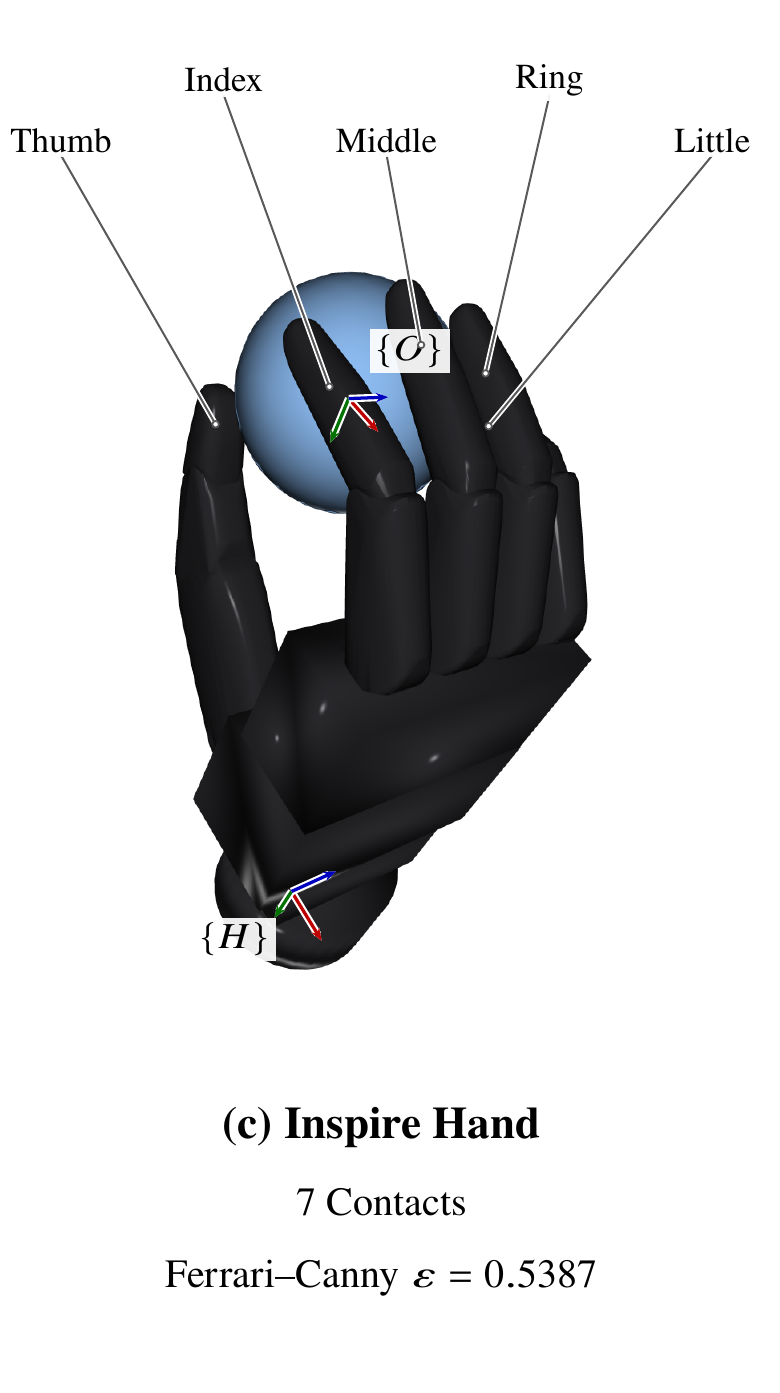
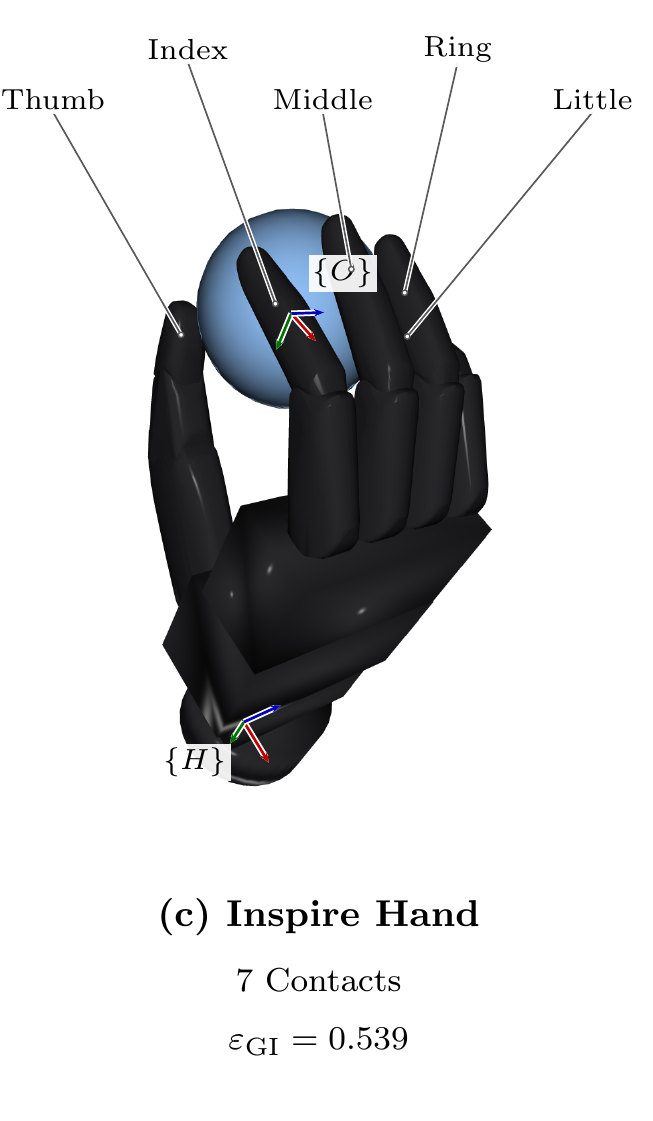
refresh the public grasp-planning guides

diff --git a/README.md b/README.md
@@ -1,112 +1,141 @@
 # graspit-py
 
-[Documentation](https://clintonenwerem.com/graspit-py/) ·
-[GraspIt! Simulator](https://graspit-simulator.github.io/) ·
-[arXiv Preprint (Coming Soon)](https://clintonenwerem.com/graspit-py/references.html#software-preprint)
+[![License: GPL-3.0-or-later](https://img.shields.io/badge/license-GPL--3.0--or--later-blue)](LICENSE)
+[![Python 3.10+](https://img.shields.io/badge/python-3.10%2B-blue)](setup.py)
+[![Documentation](https://img.shields.io/badge/docs-online-brightgreen)](https://clintonenwerem.com/graspit-py/)
 
 `graspit-py` exposes the [GraspIt! simulator](https://graspit-simulator.github.io/)
-as a Python library for grasp synthesis and evaluation with multifingered
-hands. The native bindings provide hand pose and joint control, autograsp,
-collision queries, contact geometry, and wrench-space metrics. The contact
-planner ranks simulated closures by Ferrari–Canny quality or task-wrench
-capacity under approach and friction uncertainty. The MuJoCo exporter
-generates GraspIt! hand and object descriptions and records the joint
-correspondence for transferring a planned configuration back to MuJoCo.
+as a Python library for grasp synthesis and evaluation with multifingered hands.
 
-Python imports use `graspit_py`:
+- **Native bindings:** set hand poses and joint coordinates, close fingers with autograsp, query collisions and contact geometry, and evaluate wrench-space metrics.
+- **Contact planner:** search approach commands and rank closures by Ferrari–Canny quality or task-wrench capacity under pose and friction uncertainty.
+- **MuJoCo exporter:** generate GraspIt! hand and object descriptions from a compiled MuJoCo scene, with a joint map for reconstructing planned configurations.
 
-```python
-from graspit_py.core import bindings
-from graspit_py.planning import ContactPlanner, HandFrame, PlannerConfig
-```
+Contact positions, normals, and sampled scores remain available to caller-defined
+numerical routines. The calling application supplies arm kinematics, trajectory
+planning, and execution. See the [manual](https://clintonenwerem.com/graspit-py/)
+for the mathematical formulation, API, and complete workflows.
 
-The original `graspit_python_wrapper` imports remain supported. Both names
-refer to the same modules, Python classes, and native GraspIt! state.
+## Installation
 
-## Installation on Linux
-
-The reference build uses Ubuntu 24.04 and Python 3.12. Docker builds the
-pinned public GraspIt! source with the supplied compatibility patch.
+The native extension targets Linux. The reference environment uses Ubuntu 24.04
+and Python 3.12; the package requires Python 3.10 or later. Docker supplies the
+Linux environment, pinned GraspIt! engine, and dependencies for the commands below.
 
 ```sh
 git clone https://github.com/coenwerem/graspit-py.git
 cd graspit-py
 docker buildx build --load -f docker/Dockerfile -t graspit-py .
+docker run --rm graspit-py python -m graspit_py.planning --help
 ```
 
-The [installation guide](docs/INSTALL.md) also covers native builds
-and headless execution.
+The final command prints the planner usage beginning with:
+
+```text
+usage: python -m graspit_py.planning [-h] --robot ROBOT --object OBJECT
+```
+
+The [installation guide](https://clintonenwerem.com/graspit-py/INSTALL.html)
+covers native builds, optional dependencies, and headless execution.
+Python imports use `graspit_py`; existing `graspit_python_wrapper` imports
+remain supported, as described in the guide.
+
+## First Grasp
+
+The image includes the native Barrett hand and a 50 mm cube, so this closure
+example requires no external model assets. Xvfb supplies the virtual display
+used by GraspIt! during headless execution.
+
+```sh
+mkdir -p output
+docker run --rm --user "$(id -u):$(id -g)" \
+    -v "$PWD/output:/output" graspit-py \
+    xvfb-run -a python /src/examples/contact_quality.py \
+    --robot /opt/graspit/models/robots/Barrett/Barrett.xml \
+    --object /opt/graspit/models/objects/cube.xml \
+    --object-position-mm 0 0 100 --out /output/barrett-cube.json
+```
+
+The command prints contact and quality measurements and writes
+`output/barrett-cube.json`. The [walkthrough](https://clintonenwerem.com/graspit-py/quickstart.html)
+explains the output and continues with RealHand L6 model export and planning.
 
 ## Grasp Planning
 
-The [RealHand L6 walkthrough](docs/quickstart.md) uses a user-supplied
-MuJoCo model of the right hand and a 50 mm cube. For an existing GraspIt!
-model, pass the robot XML, object XML, and a JSON configuration defining
-the hand axes, approach search, and any task loads. From the directory
-containing those files, run the planner in the Docker image.
+For an existing GraspIt! model, supply the robot XML, object XML, and a JSON
+configuration defining the hand axes, approach search, and task loads. Run
+from the directory containing those files; the mount and working directory
+make them available at `/work` inside the container.
 
 ```sh
-docker run --rm --user "$(id -u):$(id -g)" -v "$PWD:/work" graspit-py \
+docker run --rm --user "$(id -u):$(id -g)" \
+    -v "$PWD:/work" --workdir /work graspit-py \
     xvfb-run -a python -m graspit_py.planning \
     --robot hand.xml --object object.xml \
     --config problem.json --out candidates.json
 ```
 
-Each candidate contains the object-relative palm pose, closed joint
-coordinates, object-frame contacts, and sampled wrench scores. The
-[theory guide](docs/theory.md) defines those quantities and their
-coordinate conventions. The [supported-hands guide](docs/hands.md)
-documents native Barrett support and export coverage for the RealHand L6,
-LEAP, PSYONIC Ability, Shadow, and Inspire hands. It provides runnable
-kinematic profiles and records the operations evaluated for each model. The calling application supplies arm
-kinematics, trajectory planning, and execution.
+Each grasp record connects an object-relative palm pose and closed joint
+coordinates to nominal contacts and sampled wrench scores. The
+[planning guide](https://clintonenwerem.com/graspit-py/planning.html) provides
+configuration examples and output fields; the
+[theory guide](https://clintonenwerem.com/graspit-py/theory.html) defines the
+contact mechanics, coordinate conventions, and uncertainty objectives.
 
-## Planned Grasps and Simulated Execution
+## Supported Hands and Grasp Examples
+
+The [hand-model guide](https://clintonenwerem.com/graspit-py/hands.html) documents
+native Barrett support and MuJoCo export profiles for RealHand L6, LEAP,
+PSYONIC Ability, Shadow, and Inspire. It includes model sources, kinematic
+profiles, grasp records, and the operations evaluated for each hand.
 
 | RealHand L6 | LEAP Hand | PSYONIC Ability Hand |
 | :---: | :---: | :---: |
 | <img src="docs/figures/l6-insertion.png" alt="RealHand L6 fingers closed on the blue insertion key" height="200"> | <img src="docs/figures/leap-hold.png" alt="LEAP Hand holding a blue cube" height="200"> | <img src="docs/figures/ability-hold.png" alt="PSYONIC Ability Hand holding a blue sphere" height="200"> |
 | Planned key grasp | Simulated cube hold | Simulated sphere hold |
 
-The RealHand L6 image shows the planned GraspIt! closure. The LEAP
-and Ability images show final configurations from recorded MuJoCo
-lift-and-hold simulations. The [planning guide](docs/planning.md)
-reports Ferrari–Canny scores for the RealHand L6 and LEAP grasps.
+The L6 image shows a planned GraspIt! closure; the LEAP and Ability images
+show final MuJoCo lift-and-hold configurations.
 
 | Barrett Hand | Shadow Hand | Inspire Hand |
 | :---: | :---: | :---: |
-| <img src="docs/figures/barrett-grasp.png" alt="Native Barrett cube grasp with finger labels, contact markers, and palm and object frames" height="250"> | <img src="docs/figures/shadow-grasp.png" alt="Exported Shadow Hand sphere grasp with finger labels, contact markers, and palm and object frames" height="250"> | <img src="docs/figures/inspire-grasp.png" alt="Exported Inspire Hand sphere grasp with finger labels, contact markers, and palm and object frames" height="250"> |
-| Six contacts, Ferrari–Canny ε = 0.14587 | Eleven contacts, Ferrari–Canny ε = 0.42337 | Seven contacts, Ferrari–Canny ε = 0.53871 |
+| <img src="docs/figures/barrett-grasp.png" alt="Native Barrett cube grasp with finger labels, contact markers, and palm and object frames" height="250"> | <img src="docs/figures/shadow-grasp.png" alt="Shadow visual meshes at the closed sphere-grasp configuration, with finger labels and palm and object frames" height="250"> | <img src="docs/figures/inspire-grasp.png" alt="Exported Inspire sphere grasp with finger labels, contact markers, and palm and object frames" height="250"> |
+| 6 contacts, Ferrari–Canny ε = 0.146 | 11 contacts, Ferrari–Canny ε = 0.423 | 7 contacts, Ferrari–Canny ε = 0.539 |
 
-These GraspIt! closures use the native Barrett model and the Shadow
-and Inspire export profiles. The [hand-model guide](docs/hands.md)
-provides the illustrated grasp records, model sources, and coordinate conventions.
+Higher ε indicates greater worst-direction wrench resistance under the modeled
+force budget. Comparisons require common object, friction, torque-scaling, and
+force-budget conventions. The Shadow image uses visual meshes at the closed
+joint configuration; its contacts and quality were computed with collision geometry.
 
 ## MuJoCo Model Export
 
-| MuJoCo Source Workcell | Exported RealHand L6 in GraspIt! |
+| MuJoCo Source Scene | Exported RealHand L6 in GraspIt! |
 | :---: | :---: |
-| <img src="docs/figures/export-source-workcell.png" alt="MuJoCo workcell with two A7 arms and RealHand L6 hands during bimanual key insertion" height="210"> | <img src="docs/figures/export-grasp-frames.png" alt="GraspIt! export of the right RealHand L6 at the planned insertion-key grasp" height="210"> |
+| <img src="docs/figures/export-source-workcell.png" alt="MuJoCo scene with two A7 arms and RealHand L6 hands during bimanual key insertion" height="210"> | <img src="docs/figures/export-grasp-frames.png" alt="GraspIt! export of the right RealHand L6 at the planned insertion-key grasp" height="210"> |
 
-The MuJoCo panel shows a recorded bimanual key insertion. The
-GraspIt! panel shows the exported right hand closed on the key from
-a second viewpoint. The [export guide](docs/export.md) explains how
-to reconstruct planned configurations and compare link geometry.
-
-The [visualization roadmap](docs/roadmap.md) specifies the planned standalone
-viewer for model correspondence, grasp records, contact normals, and frames.
+The MuJoCo panel shows a bimanual key-insertion configuration. The GraspIt!
+panel shows the exported right hand closed on the key from a second viewpoint.
+The [export guide](https://clintonenwerem.com/graspit-py/export.html) explains the
+affine joint map, collision representations, configuration reconstruction, and
+link-geometry comparisons. The
+[visualization roadmap](https://clintonenwerem.com/graspit-py/roadmap.html)
+describes the planned standalone viewer for grasp records and model correspondence.
 
 ## Citation and References
 
-Cite the wrapper using [CITATION.cff](CITATION.cff) and record the
-software revision used. The wrapper is licensed under
-[GPL-3.0-or-later](LICENSE).
+Cite `graspit-py` using [CITATION.cff](CITATION.cff) and record the software
+revision used. The [companion paper](https://clintonenwerem.com/graspit-py/references.html#software-preprint)
+is in preparation for arXiv submission. Cite the corresponding simulator
+publication for experiments performed in GraspIt! or MuJoCo.
 
 - Miller, A. T., and Allen, P. K. (2004). [GraspIt! A Versatile Simulator for Robotic Grasping](https://www.cs.columbia.edu/~allen/PAPERS/graspit.final.pdf). *IEEE Robotics & Automation Magazine*, 11(4), 110–122.
-- Ferrari, C., and Canny, J. F. (1992). [Planning Optimal Grasps](https://doi.org/10.1109/ROBOT.1992.219918). *IEEE International Conference on Robotics and Automation*.
-- Todorov, E., Erez, T., and Tassa, Y. (2012). [MuJoCo: A Physics Engine for Model-Based Control](https://doi.org/10.1109/IROS.2012.6386109). *IEEE/RSJ International Conference on Intelligent Robots and Systems*.
-- Rockafellar, R. T., and Uryasev, S. (2002). [Conditional Value-at-Risk for General Loss Distributions](https://doi.org/10.1016/S0378-4266(02)00271-6). *Journal of Banking & Finance*, 26(7), 1443–1471.
-- Enwerem, C., Baras, J. S., and Belta, C. (2026). [FIRMGrasp: A Friction-Informed Risk Margin for Robust Grasp Synthesis](https://arxiv.org/abs/2607.25049). arXiv:2607.25049.
+- Todorov, E., Erez, T., and Tassa, Y. (2012). [MuJoCo: A Physics Engine for Model-Based Control](https://doi.org/10.1109/IROS.2012.6386109). *IEEE/RSJ International Conference on Intelligent Robots and Systems*, 5026–5033.
 
-See the [manual references](https://clintonenwerem.com/graspit-py/references.html)
-for sources on hand posture, frictional contact, and grasp wrench spaces.
+See the [full reference list](https://clintonenwerem.com/graspit-py/references.html)
+for contact mechanics, grasp quality, and risk-sensitive planning references.
+The software is licensed under [GPL-3.0-or-later](LICENSE).
+
+## Contributing
+
+See [CONTRIBUTING.md](CONTRIBUTING.md) for development setup, issue reports,
+and contribution guidelines.

diff --git a/docs/hands.md b/docs/hands.md
@@ -32,7 +32,9 @@ MuJoCo export profiles for Shadow and Inspire. Barrett grasps a 50 mm
 cube; Shadow and Inspire grasp a sphere of 60 mm diameter. Each image
 uses the queried closed joint state and object pose. Green markers
 identify recorded contacts; the annotations locate the fingers and
-palm/object frames. Select an image to view it at full size.
+palm/object frames. The Shadow view uses URDF visual meshes at the closed
+joint configuration; its contact positions and quality were computed with
+collision geometry. Select an image to view it at full size.
 
 ````{container} hand-gallery hand-detail-gallery
 ```{figure} figures/barrett-grasp.png
@@ -42,10 +44,10 @@ palm/object frames. Select an image to view it at full size.
 Native Barrett cube grasp.
 ```
 ```{figure} figures/shadow-grasp.png
-:alt: Exported Shadow palm grasp on a sphere with finger labels, coordinate frames, and contact markers.
+:alt: Shadow visual meshes closed around a sphere, with finger labels and palm and object frames.
 :target: _images/shadow-grasp.png
 
-Exported Shadow sphere grasp.
+Shadow sphere grasp, shown with visual meshes.
 ```
 ```{figure} figures/inspire-grasp.png
 :alt: Exported Inspire grasp on a sphere with finger labels, coordinate frames, and contact markers.

diff --git a/docs/index.md b/docs/index.md
@@ -45,7 +45,7 @@ for software citation metadata and the
 ```
 ```{figure} figures/shadow-grasp-preview.png
 :target: hands.html#grasps-on-native-and-exported-hands
-:alt: Exported Shadow hand grasping a sphere with all five fingers.
+:alt: Shadow Hand visual meshes at the closed sphere-grasp configuration.
 
 **Shadow Hand.** Planned sphere grasp.
 ```
